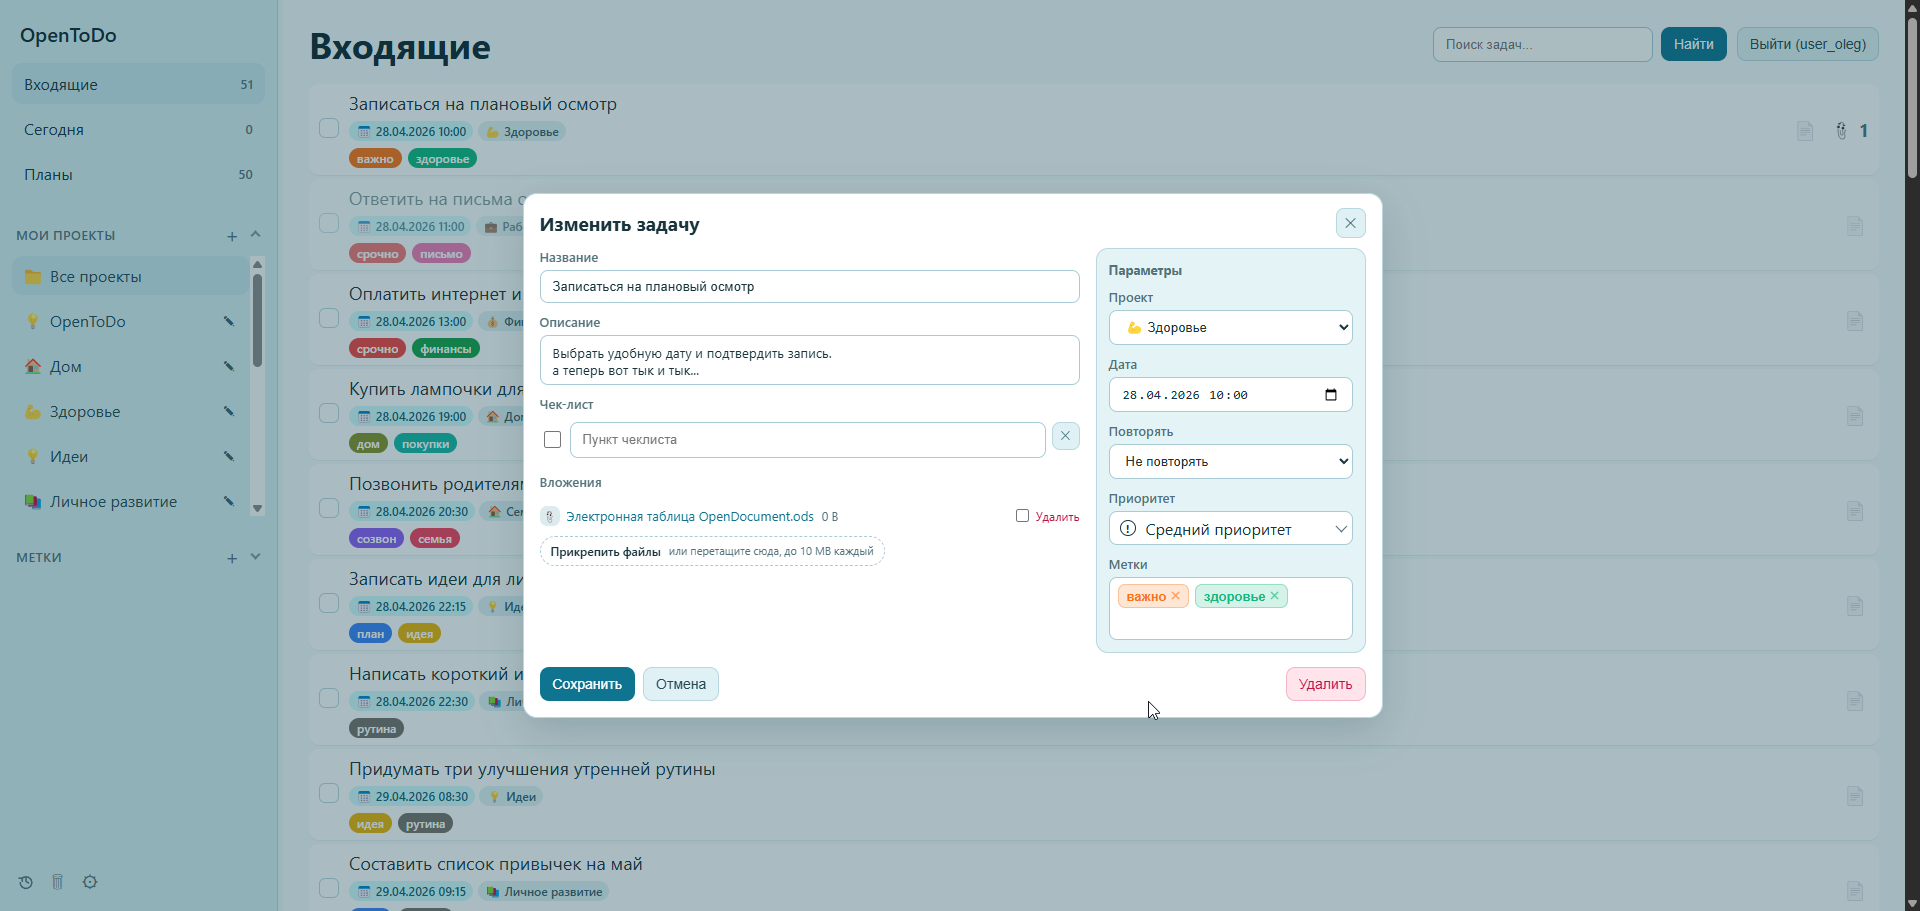
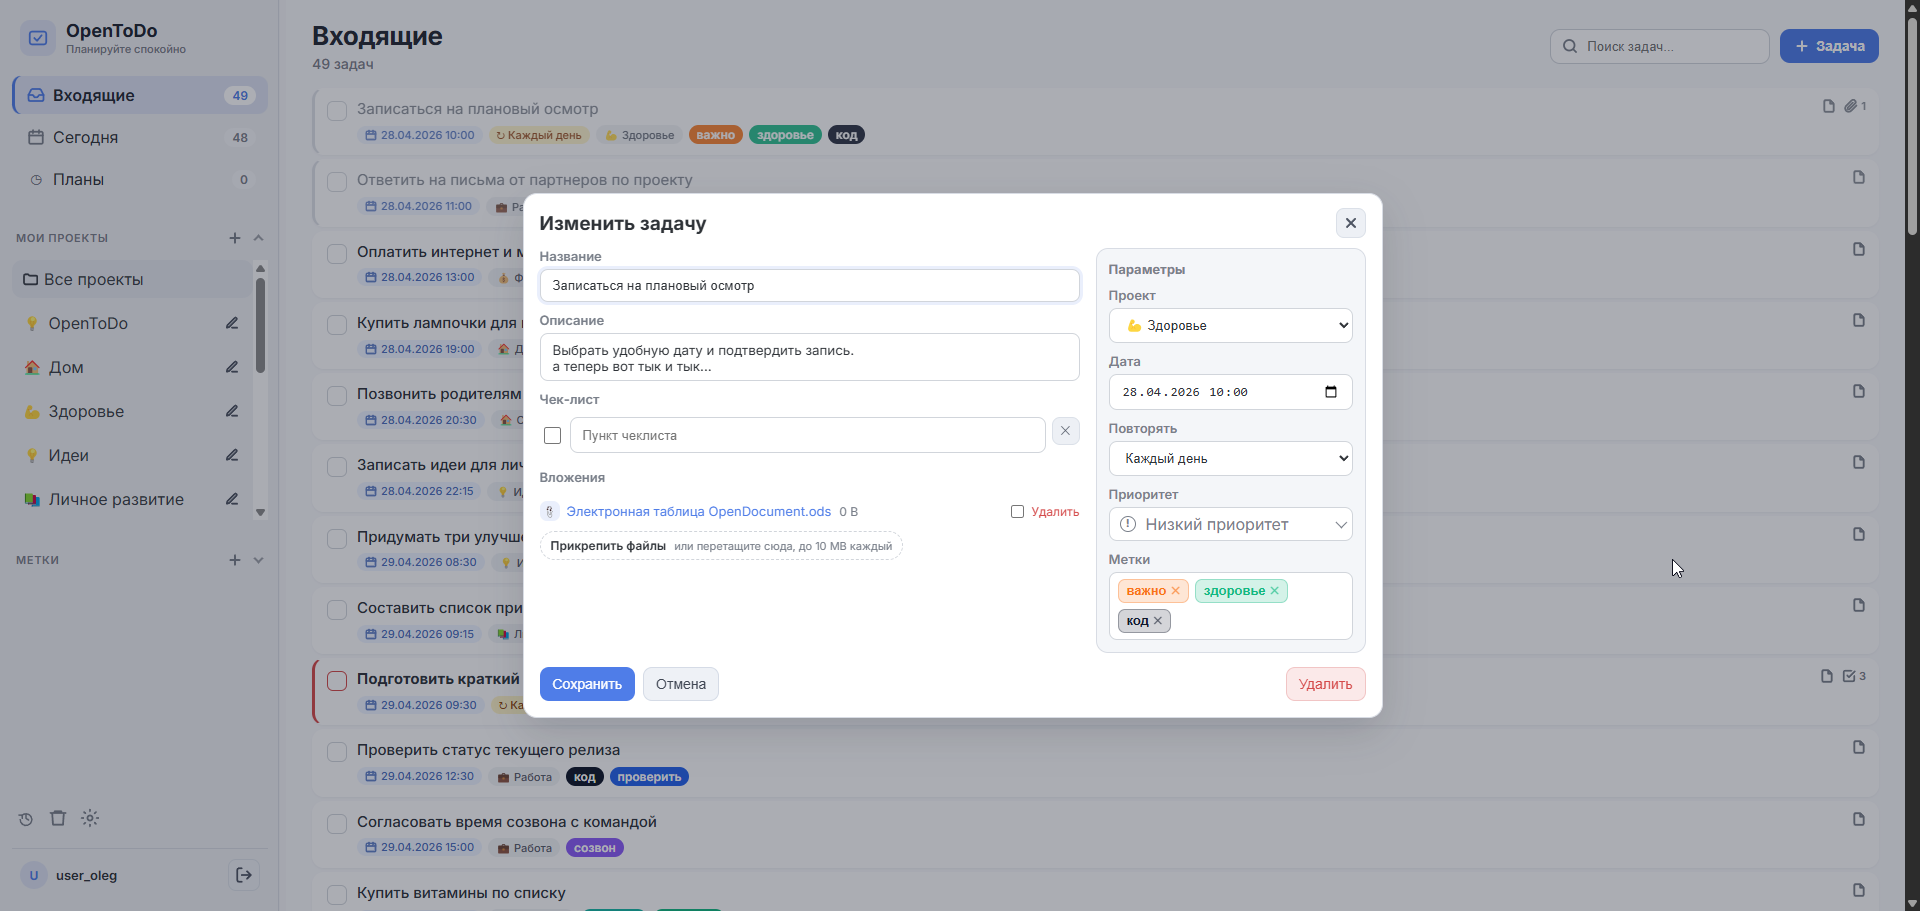
Update readme images

diff --git a/templates/login.html b/templates/login.html
@@ -6,19 +6,13 @@
 </head>
 <body class="auth-page">
 <div class="auth-layout">
-    <aside class="auth-brand-panel">
-        <div class="auth-brand-inner">
-            {% from "partials/_icons.html" import icon %}
-            <span class="auth-brand-logo">{{ icon('logo', '', 36) }}</span>
-            <h1 class="auth-brand-title">OpenToDo</h1>
-            <p class="auth-brand-tagline">Простой таск-менеджер без лишнего</p>
-        </div>
-    </aside>
     <main class="auth-form-panel">
         <div class="auth-container">
-            <h2 class="auth-form-title">Вход</h2>
-            <p class="auth-form-subtitle">Добро пожаловать обратно</p>
-
+            <div class="auth-brand-panel">
+                {% from "partials/_icons.html" import icon %}
+                <span class="auth-brand-logo">{{ icon('logo', '', 36) }}</span>
+                <h1 class="auth-brand-title">OpenToDo</h1>
+            </div>
             <form class="auth-form" action="{{ url_for('auth.login') }}" method="post">
                 <input type="hidden" name="csrf_token" value="{{ csrf_token() }}">
                 <label class="form-field">

diff --git a/static/style.css b/static/style.css
@@ -1682,9 +1682,10 @@ body.app-page .toast {
 }
 
 .auth-layout {
-    display: grid;
-    grid-template-columns: 1fr 1fr;
-    min-height: 100vh;
+    display: flex;             /* Activates Flexbox */
+    justify-content: center;   /* Centers content horizontally */
+    align-items: center;       /* Centers content vertically */
+    min-height: 100vh;         /* Ensures the layout takes up the full viewport height */
 }
 
 .auth-brand-panel {
